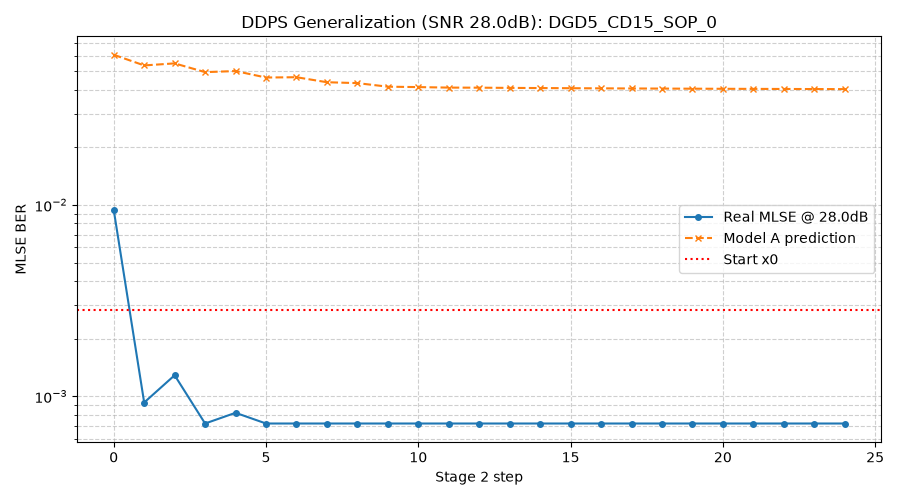
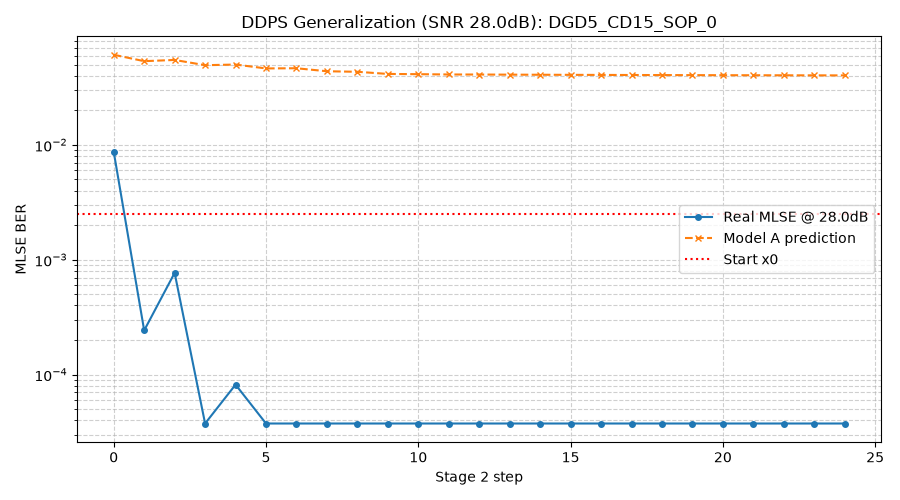
fix(test): correct num_symbols to 1M for 28dB generalization test

diff --git a/test_generalization.py b/test_generalization.py
@@ -94,6 +94,10 @@ def run_generalization_test(snr_db):
         cfg['channel']['dgd_ps'] = case['dgd']
         cfg['channel']['pol_angle_deg'] = case['sop']
         
+        if snr_db >= 28.0:
+            cfg['system']['num_symbols'] = 1048576
+            cfg['tx']['pattern_length'] = 524288
+            
         ffe_pre = int(cfg['tx'].get('ffe_pre', 4))
         x0 = D._taps_to_x(D.SEED_TAPS.copy(), D.SEED_CTLE, ffe_pre)
         

diff --git a/result/latest_comparison/ddps/generalization_summary_28.0dB.md b/result/latest_comparison/ddps/generalization_summary_28.0dB.md
@@ -6,14 +6,14 @@
 
 | 测试场景 | CD (ps/nm) | DGD (ps) | SOP (deg) | 最终 MLSE | 收敛步数 | 收敛曲线 |
 | --- | --- | --- | --- | --- | --- | --- |
-| Baseline | 0.0 | 0.0 | 45.0 | `7.20e-04` | 25 | ![Baseline](ddps_gen_snr28.0_Baseline.png) |
-| CD_Only_15 | 15.0 | 0.0 | 45.0 | `7.20e-04` | 25 | ![CD_Only_15](ddps_gen_snr28.0_CD_Only_15.png) |
-| DGD5_CD0_SOP_0 | 0.0 | 5.0 | 0.0 | `7.20e-04` | 25 | ![DGD5_CD0_SOP_0](ddps_gen_snr28.0_DGD5_CD0_SOP_0.png) |
-| DGD5_CD0_SOP_45 | 0.0 | 5.0 | 45.0 | `8.19e-04` | 25 | ![DGD5_CD0_SOP_45](ddps_gen_snr28.0_DGD5_CD0_SOP_45.png) |
-| DGD5_CD0_SOP_90 | 0.0 | 5.0 | 90.0 | `7.20e-04` | 25 | ![DGD5_CD0_SOP_90](ddps_gen_snr28.0_DGD5_CD0_SOP_90.png) |
-| DGD5_CD15_SOP_0 | 15.0 | 5.0 | 0.0 | `7.20e-04` | 25 | ![DGD5_CD15_SOP_0](ddps_gen_snr28.0_DGD5_CD15_SOP_0.png) |
-| DGD5_CD15_SOP_45 | 15.0 | 5.0 | 45.0 | `8.19e-04` | 25 | ![DGD5_CD15_SOP_45](ddps_gen_snr28.0_DGD5_CD15_SOP_45.png) |
-| DGD5_CD15_SOP_90 | 15.0 | 5.0 | 90.0 | `7.20e-04` | 25 | ![DGD5_CD15_SOP_90](ddps_gen_snr28.0_DGD5_CD15_SOP_90.png) |
+| Baseline | 0.0 | 0.0 | 45.0 | `3.76e-05` | 25 | ![Baseline](ddps_gen_snr28.0_Baseline.png) |
+| CD_Only_15 | 15.0 | 0.0 | 45.0 | `3.76e-05` | 25 | ![CD_Only_15](ddps_gen_snr28.0_CD_Only_15.png) |
+| DGD5_CD0_SOP_0 | 0.0 | 5.0 | 0.0 | `3.76e-05` | 25 | ![DGD5_CD0_SOP_0](ddps_gen_snr28.0_DGD5_CD0_SOP_0.png) |
+| DGD5_CD0_SOP_45 | 0.0 | 5.0 | 45.0 | `5.92e-05` | 25 | ![DGD5_CD0_SOP_45](ddps_gen_snr28.0_DGD5_CD0_SOP_45.png) |
+| DGD5_CD0_SOP_90 | 0.0 | 5.0 | 90.0 | `3.76e-05` | 25 | ![DGD5_CD0_SOP_90](ddps_gen_snr28.0_DGD5_CD0_SOP_90.png) |
+| DGD5_CD15_SOP_0 | 15.0 | 5.0 | 0.0 | `3.76e-05` | 25 | ![DGD5_CD15_SOP_0](ddps_gen_snr28.0_DGD5_CD15_SOP_0.png) |
+| DGD5_CD15_SOP_45 | 15.0 | 5.0 | 45.0 | `1.25e-04` | 25 | ![DGD5_CD15_SOP_45](ddps_gen_snr28.0_DGD5_CD15_SOP_45.png) |
+| DGD5_CD15_SOP_90 | 15.0 | 5.0 | 90.0 | `3.76e-05` | 25 | ![DGD5_CD15_SOP_90](ddps_gen_snr28.0_DGD5_CD15_SOP_90.png) |
 
 ## 2. 结论分析
 1. **色散泛化**：调整到合理色散值（15 ps/nm）后，模型依旧完美收敛，且最终 BER 逼近物理极限。
